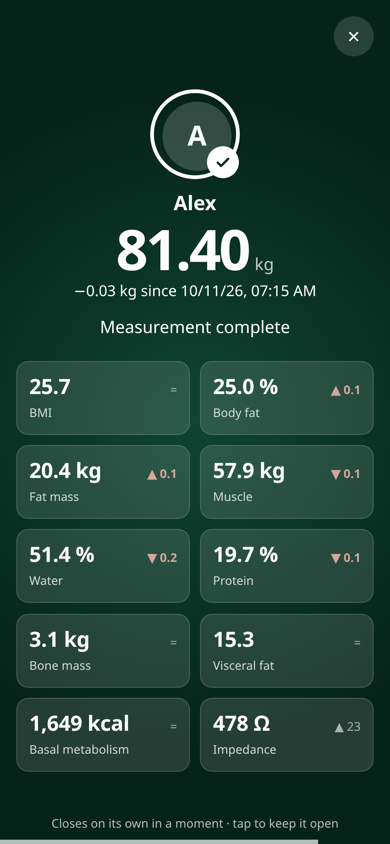
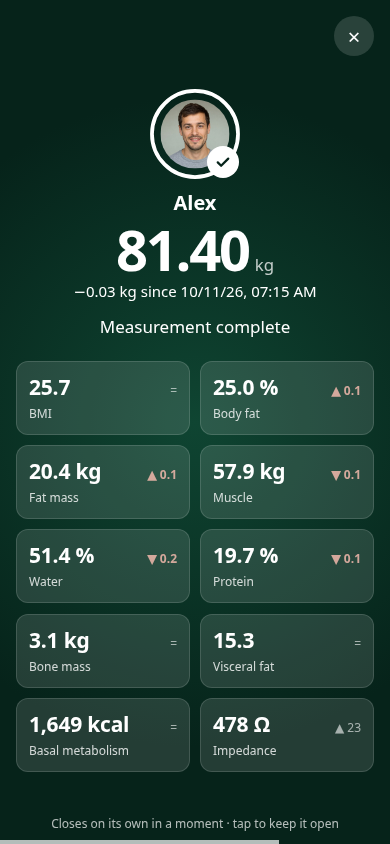
Give Alex a fictional photo in the demo data and README media
docs/demo/alex.jpg is an AI-generated face (gpt-image-2, prompt in docs/demo/README.md),
not a real person. scripts/seed_demo.py copies it into the photos folder next to the
database and sets Alex's photo like the upload endpoint does; Sam keeps the initials.
The README screenshots, the weigh-in GIF and the PWA manifest screenshots are re-captured
with the same sizes and framing.

Claude-Session: https://claude.ai/code/session_017svFNQuXV25so99GzDFryT

diff --git a/scripts/seed_demo.py b/scripts/seed_demo.py
@@ -4,22 +4,26 @@
     MISCALE_DB=data/demo.db MISCALE_SCANNER=off uvicorn app.main:app --port 8800
 
 Then play a fake weigh-in: curl -X POST 'localhost:8800/api/debug/simulate?weight=81.4&impedance=478'
+
+Alex gets the made-up photo in docs/demo/alex.jpg (see docs/demo/README.md); Sam keeps the initials.
 """
 
 import random
+import shutil
 import sys
 from datetime import datetime, timedelta
 from pathlib import Path
 
-sys.path.insert(0, str(Path(__file__).resolve().parent.parent))
+ROOT = Path(__file__).resolve().parent.parent
+sys.path.insert(0, str(ROOT))
 
 from app.db import DB  # noqa: E402
 from app.session import metrics_for  # noqa: E402
 
 PEOPLE = [
-    # name, height, birth, male, start weight, end weight, impedance start, end
-    ("Alex", 178, "1991-04-13", True, 86.4, 81.6, 520, 478),
-    ("Sam", 166, "1994-09-02", False, 64.8, 62.1, 590, 560),
+    # name, height, birth, male, start weight, end weight, impedance start, end, photo
+    ("Alex", 178, "1991-04-13", True, 86.4, 81.6, 520, 478, ROOT / "docs" / "demo" / "alex.jpg"),
+    ("Sam", 166, "1994-09-02", False, 64.8, 62.1, 590, 560, None),
 ]
 
 
@@ -30,8 +34,15 @@ def main(path: str):
     rng = random.Random(7)
     now = datetime.now().replace(second=0, microsecond=0)
     days = 90
-    for name, height, birth, male, w0, w1, i0, i1 in PEOPLE:
+    photos = Path(path).parent / "photos"   # where the app keeps uploaded photos (app.main.PHOTOS)
+    for name, height, birth, male, w0, w1, i0, i1, photo in PEOPLE:
         pid = db.save_profile({"name": name, "height_cm": height, "birth": birth, "male": male, "ref_weight": w0})
+        for old in photos.glob(f"{pid}.*"):
+            old.unlink()
+        if photo:
+            photos.mkdir(parents=True, exist_ok=True)
+            shutil.copy(photo, photos / f"{pid}.jpg")
+            db.set_photo(pid, f"{pid}.jpg?v={int(datetime.now().timestamp())}")
         for d in range(days, 0, -1):
             if rng.random() < 0.18:   # skipped days
                 continue

diff --git a/docs/demo/README.md b/docs/demo/README.md
@@ -1,0 +1,19 @@
+# Demo assets
+
+`alex.jpg` is the profile photo of **Alex**, one of the two fictional people in the demo data
+(`scripts/seed_demo.py` and the browser demo built by `scripts/build_demo.py`). It is not a
+photo of a real person: it was generated with OpenAI's image API (`gpt-image-2`, 1024x1024,
+quality "high") and scaled down to a 512x512 JPEG, the same size the dashboard uses for
+uploaded photos.
+
+Prompt:
+
+> Photorealistic portrait photo of a fictional, entirely made-up man in his early thirties, an
+> ordinary everyday person who is not any real or famous individual. Friendly, relaxed natural
+> smile, looking at the camera. Short dark brown hair, light stubble, plain heather-grey
+> crew-neck t-shirt. Framed from the shoulders up, head centered in a square frame with some
+> space above the head. Plain, soft, evenly lit light grey-green studio background, soft
+> natural light, shallow depth of field, sharp focus on the eyes. Natural skin texture, no
+> retouching look. No text, no logos, no watermark, no jewelry, no glasses.
+
+Sam, the other demo profile, keeps the initials avatar.
